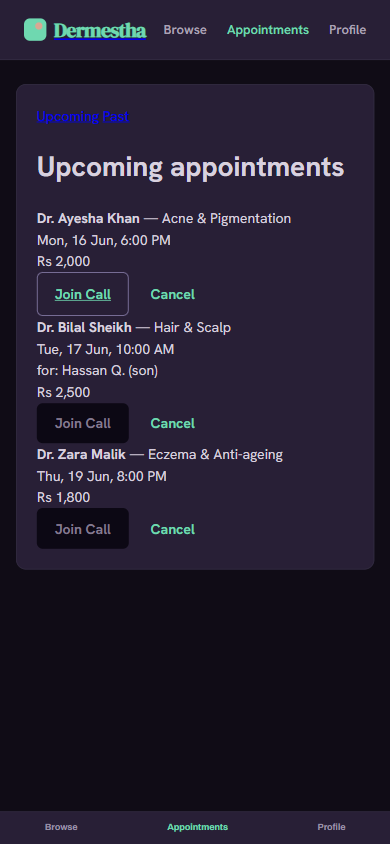
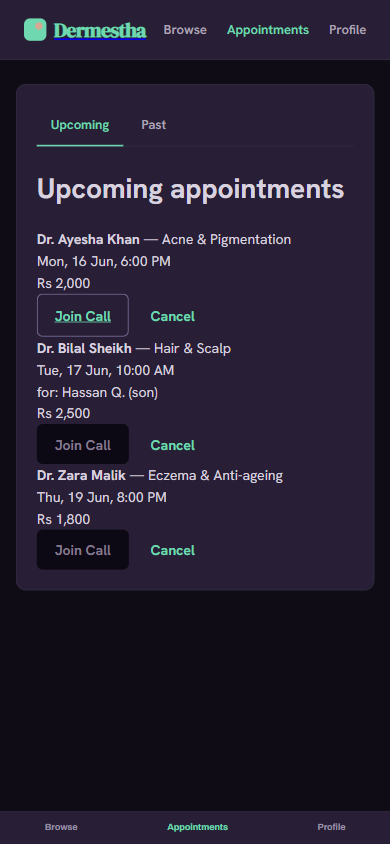
docs(spec): record F17/A-06 theming + ADR-41 across canon docs
- doc 11: ADR-41 (client-side runtime theming, layered tokens; builds on ADR-06) v1.18
- doc 02: F17 admin appearance/theme switcher (post-PRD) v1.5
- doc 06: §8 Theming system + A-06 in registry + sidebar + .tabs component v1.7
- doc 13: F17/A-06 Built status row + admin-views checklist v1.22
- doc 12: TC-F17-001/002 test cases v1.8
- doc 15: intentionally not touched (theme constants are client UI; documented in doc 06)
surgical edits per doc-00 change protocol (version bumps + footers)

Changed region(s): [[0.0308, 0.1232, 0.9538, 0.7085], [0.3692, 0.1232, 0.4308, 0.154]]

diff --git a/docs/specification/06-DESIGN_SYSTEM_THEME_DOCUMENT.md b/docs/specification/06-DESIGN_SYSTEM_THEME_DOCUMENT.md
@@ -4,7 +4,7 @@
 | ---------------- | ----------------------------------------------------------------------------------------- |
 | Document ID      | `06-DESIGN_SYSTEM_THEME_DOCUMENT`                                                         |
 | Status           | Canonical                                                                                 |
-| Version          | 1.6                                                                                       |
+| Version          | 1.7                                                                                       |
 | Last updated     | 2026-06-15                                                                                |
 | Sources absorbed | `docs/design/DESIGN.md; mockups/assets/css/tokens.css; mockups/assets/css/components.css` |
 | Related docs     | 02, 03                                                                                    |
@@ -20,6 +20,7 @@
 5. [Typography](#5-typography)
 6. [Spacing & layout](#6-spacing--layout)
 7. [Component behavior](#7-component-behavior)
+8. [Theming system (runtime themes)](#8-theming-system-runtime-themes)
 
 ---
 
@@ -107,9 +108,9 @@ Today — Availability (weekly grid) — History
 
 ### Admin sidebar links
 
-Doctors — Medicines — Records & audit — System health — Settings
+Doctors — Medicines — Records & audit — System health — Settings — Appearance
 
-`/admin` redirects to `/admin/doctors` — the Doctors list is the admin landing page.
+`/admin` redirects to `/admin/doctors` — the Doctors list is the admin landing page. **Appearance** (A-06) is the runtime theme switcher (F17, §8).
 
 **Sidebar logout.** Both the doctor and admin sidebars render a **Log out** control at the foot of the sidebar (`POST /api/auth/logout` then a full reload to `/login`); it is the doctor/admin equivalent of the patient's Profile-hosted logout. The `History` doctor link resolves to the D-02 history view (the history tab), not a separate screen.
 
@@ -141,8 +142,9 @@ Doctors — Medicines — Records & audit — System health — Settings
 | A-03      | Alert feed / system health               | Admin                    | A3           |
 | A-04      | Records & Audit Log                      | Admin                    | A5           |
 | A-05      | Settings                                 | Admin                    | A6           |
+| A-06      | Appearance — theme switcher (client)     | Admin                    | F17          |
 
-> **Note (canonical screen-ID registry).** The 24 rows above are the authoritative screen-ID registry — cite these IDs verbatim across the suite. The patient bottom-nav **Profile** destination (§2 navigation, below) is intentionally not a dedicated v1 screen: in v1 it routes to a minimal account view (logout + basic details); richer account management (account deletion / data-export → v1.1; family profiles → v1.2+) is deferred, so it carries no `P-NN` ID.
+> **Note (canonical screen-ID registry).** The 25 rows above are the authoritative screen-ID registry — cite these IDs verbatim across the suite. **A-06 Appearance** is a post-PRD addition (the v1 client theme redesign; F17 / ADR-41 / §8) — a style-only admin theme switcher. The patient bottom-nav **Profile** destination (§2 navigation, below) is intentionally not a dedicated v1 screen: in v1 it routes to a minimal account view (logout + basic details); richer account management (account deletion / data-export → v1.1; family profiles → v1.2+) is deferred, so it carries no `P-NN` ID.
 
 ---
 
@@ -586,6 +588,41 @@ Centered, `padding: var(--sp-12) var(--sp-4)`, `var(--color-text-muted)`. Icon: 
 
 ---
 
+## 8. Theming system (runtime themes)
+
+Added by the v1 client theme redesign (style-only; F17, ADR-41). The §4–§7 token system is the single styling source; this section documents how it became **runtime-switchable across multiple themes** with no per-screen change.
+
+### Layered tokens
+
+- **Invariant scale** — `client/src/styles/tokens.css` (`:root`): spacing, type scale, layout, motion, radius defaults, and the **default ("spruce") palette**. The §4 colour table documents this default theme.
+- **Swappable palettes** — `client/src/styles/themes.css`: one `:root[data-theme="<id>"]` block per non-default theme, each a complete palette (the §4 colour set + the extended role tokens below + the §6 radius scale + a heading serif). A `[data-theme]` block outranks the base `:root` in specificity, so spruce needs no block (selecting it clears the override).
+- **Extended role tokens** (added so every literal is themeable — this restores §7's "no raw hex in components.css" property, now literally true): `--color-on-accent`, `--color-on-danger`, `--color-on-dark-strong`, `--color-text-disabled`, `--color-tab-inactive`, `--focus-ring`, `--focus-ring-soft`, `--backdrop`, and `--font-display` (the §5 heading font, now theme-variable; small UI labels keep `--font-head`).
+
+### Runtime
+
+`client/src/lib/theme/theme.js` applies a theme by setting `data-theme` on `<html>` and persists it in `localStorage` (`dermestha.theme`); a pre-paint inline script in `index.html` applies it before first paint (no flash-of-wrong-theme). Display webfonts are lazy-loaded per active theme; the body font stays Hanken Grotesk for 3G performance. Persistence is **per-browser** — a server-backed global (all-users) theme is out of scope for this client-only change (ADR-41).
+
+### Shipped themes
+
+| Theme                       | Pole               | Ground             | Brand          | Accent     | Radii    | Heading serif    |
+| --------------------------- | ------------------ | ------------------ | -------------- | ---------- | -------- | ---------------- |
+| **Ivory & Ink** *(default)* | light editorial    | warm bone          | near-black ink | burnt amber | 1/2/4px  | Fraunces         |
+| **Derma Noir**              | dark / immersive   | aubergine-charcoal | jade           | rose-gold  | 6/10/14px | DM Serif Display |
+| **Sage & Blush**            | warm spa           | greige             | sage           | clay-rose  | 8/12/16px | Newsreader       |
+| **Spruce** *(original)*     | clinical apothecary | cool porcelain     | deep spruce    | brass      | 3/4/6px  | Archivo          |
+
+The three new themes are independently verified **WCAG 2.1 AA** for all text + functional control-boundary pairs (`theme-redesign/verify-contrast.mjs`). The §4 discipline rules (accent is fill / large-bold / non-text only; status is colour + icon + label) hold across all themes.
+
+### Admin surface (A-06)
+
+`/admin/appearance` presents the themes as preview cards (swatches + tagline) plus a live component preview; selecting one applies + persists instantly (cosmetic — no confirm gate). The full design rationale lives in `docs/theme-redesign/THEME-DESIGN.md`.
+
+### New component since §7
+
+**Tab nav (`.tabs` / `.tab` / `.tab--active`).** The appointment dashboard (P-08/P-09), doctor Today/History (D-02), and admin Records & Audit (A-04) use a tab row that previously had **no CSS** (it fell back to default browser links — illegible on the dark theme). It is now a themeable underline-tab: inactive `var(--color-text-muted)`, active `var(--color-primary)` text + a 2 px `var(--color-primary)` bottom border, on a `var(--color-border)` baseline.
+
+---
+
 ## Revision footer
 
 | Date       | Change           | Why                                                                 |
@@ -597,3 +634,4 @@ Centered, `padding: var(--sp-12) var(--sp-4)`, `var(--color-text-muted)`. Icon: 
 | 2026-06-14 | Added a "Pre-call get-ready room (P-11)" note — P-11 has no app-managed camera-preview pane (Daily prejoin owns the device check; approved minor deviation from the mockup) — and noted that P-12 + D-04 are served by one shared role-aware `VideoRoom` (separate screen IDs retained) rendering a brand-themed Daily Prebuilt iframe | Slice H · S3 (video consultation UI; ADR-34) |
 | 2026-06-14 | P-01 landing → Built: added the §2 public SPA route map (`/`→landing, listing P-02 relocated to `/browse`, logged-in-patient `/`→`/browse` redirect) and §3 "Landing (P-01)" (hero CTAs Browse + Sign-up, "How it works" anchor in the topnav, static featured-doctors grid) + "Legal pages (F16)" (reusable `LegalPage` DRAFT-banner pattern for `/legal/terms`,`/legal/privacy`) interaction notes | Slice H · S4 (public surface — landing + legal; ADR-35) |
 | 2026-06-15 | Flow-audit fixes: §2 sidebar **Log out** control (doctor/admin) + History-link-resolves note (ISSUE-2/4); §3 day-tabbed picker renders on P-03 (ISSUE-1); A-01 photo **required on add** (ISSUE-6); new "Medicine catalogue (A-02)" Edit note (ISSUE-7); P-07 as-built single "Payment not completed" terminal card + no-infinite-poll (ISSUE-3); "Not-found & cross-tenant states" (404 page ISSUE-8 + cross-tenant Rx message ISSUE-10); Landing featured cards display-only (ISSUE-5) | Three-role flow-audit fix session |
+| 2026-06-15 | Added §8 Theming system (layered tokens `tokens.css`/`themes.css`, extended role tokens incl. `--font-display`, `data-theme`+`localStorage` runtime, 4 themes — new AA default Ivory & Ink + Derma Noir + Sage & Blush + original Spruce); §2 admin sidebar +Appearance and screen registry +A-06 (24→25 rows); new `.tabs`/`.tab` tab-nav component. Style-only redesign; F17 / ADR-41 | Client theme-system visual redesign |

diff --git a/docs/specification/13-PRODUCT_STATUS_TRACKER.md b/docs/specification/13-PRODUCT_STATUS_TRACKER.md
@@ -4,7 +4,7 @@
 | ---------------- | ----------------------------------------------------------------------------------------------------------------------------------------------------- |
 | Document ID      | `13-PRODUCT_STATUS_TRACKER`                                                                                                                           |
 | Status           | Canonical                                                                                                                                             |
-| Version          | 1.21                                                                                                                                                   |
+| Version          | 1.22                                                                                                                                                   |
 | Last updated     | 2026-06-15                                                                                                                                            |
 | Sources absorbed | `server/src + client/src inspection; agentChangeLogs/2026-05-31-1700-m0-foundation-scaffold.md; ARCHITECTURE.md §5b; docs/specification/02; PRD §5.1` |
 | Related docs     | 02, 03, 05                                                                                                                                            |
@@ -157,6 +157,7 @@ Feature IDs are those defined in `docs/specification/02-SCOPE_FEATURE_DOCUMENT.m
 | F14 — Admin: platform settings                       | Settings (17)                               | M4        | Built       | Slice G: settings service + `GET`/`PUT` singleton (id=1, bounded full-replace, `before`→`after` `settings.updated` audit) + A-05 view. Tested |
 | F15 — Doctor & admin authentication & roles          | Auth & session (1)                          | M1        | Built       | Shared login + role routing, DA3 forced-change gate, `requireRole` all built & tested (Slice A); Slice G built DA5 admin-mediated reset + admin doctor-create; admin bootstrap script present (DA4)           |
 | F16 — Legal content (ToS / Privacy)                  | Legal content (19)                          | M4        | Built (DRAFT) | Slice H · S4: public `/legal/terms` + `/legal/privacy` via the reusable `LegalPage` template (banner-marked structured DRAFT; ADR-35), linked from the sign-up consent checkbox + landing footer; Privacy cross-refs the doc 08 §2 data-handling policy. Final lawyer-reviewed copy is a pre-launch gate. F16.02 consent capture (`tos_accepted_at`) was built in Slice A |
+| F17 — Admin: appearance / theme switcher (client)    | Appearance (A-06)                           | post-PRD  | Built       | Client theme redesign (ADR-41): layered tokens (`tokens.css` scale + `themes.css` palettes), `data-theme`+`localStorage` runtime, 4 selectable themes (new AA default Ivory & Ink + Derma Noir + Sage & Blush + original Spruce), A-06 Appearance view; style-only, no schema/API. Theme-runtime unit test added (client 135→141) |
 
 ---
 
@@ -280,7 +281,7 @@ This section is the v1 build backlog (baseline 2026-06-01), reconciled as each s
 - [x] Email automation: transport mechanism built in Slice E (outbox + dispatch worker: confirmation, 24h/1h reminders, refund confirmation, cancellation apology, refund-delayed; retry/backoff; reminder invalidation); `prescription_ready` trigger built in Slice F (per-prescription via outbox `dedupe_key`); final plain-text copy for all 8 templates shipped in Slice H · S5 (`email/templates.js` shared `render()` + `formatPKR`). (HTML email + Urdu deferred per design.)
 - [x] Landing page (public-facing patient acquisition surface) — Slice H · S4 (P-01 at `/`; listing relocated to `/browse`; logged-in-patient `/`→`/browse` redirect; KPI #1 `landing_view`/`booking_started` emits; ADR-35)
 - [x] Legal content: `/legal/terms` and `/legal/privacy` pages — Slice H · S4 (reusable `LegalPage` banner-marked structured DRAFT; final lawyer copy is a pre-launch gate)
-- [x] Admin views (client): A-01 Doctors (list / add / edit / deactivate — add-doctor and doctor-detail/edit are sub-views of A-01), A-02 Medicines, A-03 System health, A-04 Records & audit, A-05 Settings — Slice G (no A-06/A-07)
+- [x] Admin views (client): A-01 Doctors (list / add / edit / deactivate — add-doctor and doctor-detail/edit are sub-views of A-01), A-02 Medicines, A-03 System health, A-04 Records & audit, A-05 Settings — Slice G; **A-06 Appearance** (client theme switcher, F17/ADR-41) — client theme redesign (A-07 still none)
 - [x] Doctor views (client): D-02 today's-appointments base view (incl. History, 10-min Join gate, write-Rx action, awaiting badge), D-04 video consultation, D-06 cancel appointment modal — all built (D-02/D-06 prior; D-04 + D-02 Join→`/ready` redirect & `video_join_attempt` emit in Slice H · S3)
 - [~] Patient views (client): P-11 pre-call get-ready room ✓, P-12 video consultation ✓ (Slice H · S3); P-01 landing ✓ (Slice H · S4); patient Profile tab (doc 06 §2 nav destination; no dedicated screen-inventory ID) still pending. Refund status shows within the P-08/P-09 dashboards (doc 02 §F04), not a standalone screen
 - [x] Full E2E QA pass — Slice H · S7 launch gate: Playwright `e2e/` harness, 6 Critical journeys J1–J6 (11/11) vs mock adapters (ADR-38) + 3 new money-path integration tests; FK-`RESTRICT` crash class fixed (ADR-39); 320 server / 123 client / 11 e2e; verdict **Conditional-Go** (report under `docs/superpowers/reports/`). Remaining: human UAT sign-off + the vendor live-delivery gates (doc 07 §3/§10)
@@ -313,3 +314,4 @@ This section is the v1 build backlog (baseline 2026-06-01), reconciled as each s
 | 2026-06-14 | E2E QA launch gate executed: §2 M4 → ~95% (E2E executed, Conditional-Go, counts 320/123/11 + report ref); added an "E2E test harness" cross-cutting/infra row (`e2e/`, `test:e2e`, `@playwright/test`; ADR-38); §5 roadmap M4 + §6 backlog "Full E2E QA pass" ticked; added a §5 follow-up row marking the money-path FK-delete crash class **Resolved** (ADR-39, 3 new integration tests) | Slice H · S7 (E2E QA + launch gate; ADR-38/39) (v1.19) |
 | 2026-06-15 | Three-role flow-audit fix cycle recorded in the §2 M4 snapshot: 13 navigable-flow issues fixed test-first; suite raised to **322 server / 135 client / 17 e2e** (+j7/j8/j9 E2E specs) | Three-role flow-audit fix session (v1.20) |
 | 2026-06-15 | Re-pointed two test-file inventory paths to the centralized tree: `audit.service.test.js` → `server/test/unit/services/audit/`; the 3 money-path integration tests → `server/test/integration/` (ADR-40) | Test centralization (ADR-40); paths only, no count change | 
+| 2026-06-15 | Added F17 / A-06 Appearance (client theme switcher) to the feature table + admin-views checklist: layered-token theming (`tokens.css`/`themes.css`), `data-theme`+`localStorage` runtime, 4 selectable themes (new AA default Ivory & Ink + Derma Noir + Sage & Blush + Spruce); client tests 135→141 (theme-runtime unit test); style-only, no schema/API (ADR-41) | Client theme-system visual redesign (v1.22) |

diff --git a/docs/specification/11-ARCHITECTURE_DECISION_RECORD.md b/docs/specification/11-ARCHITECTURE_DECISION_RECORD.md
@@ -4,7 +4,7 @@
 | ---------------- | -------------------------------------------------------------------------------------------------- |
 | Document ID      | 11-ARCHITECTURE_DECISION_RECORD                                                                    |
 | Status           | Canonical                                                                                          |
-| Version          | 1.17                                                                                               |
+| Version          | 1.18                                                                                               |
 | Last updated     | 2026-06-15                                                                                         |
 | Sources absorbed | `docs/engineering/ARCHITECTURE.md §3/§5/§8/§10/§12/§15; agentChangeLogs/; docs/superpowers/specs/` |
 | Related docs     | 03, 04, 05, 14                                                                                     |
@@ -54,6 +54,7 @@
 39. [ADR-38 — Playwright E2E harness (root `e2e/`) against the mock adapters as the v1 launch gate](#adr-38--playwright-e2e-harness-root-e2e-against-the-mock-adapters-as-the-v1-launch-gate)
 40. [ADR-39 — Payment/appointment no-cascade release policy (refines ADR-23)](#adr-39--paymentappointment-no-cascade-release-policy-refines-adr-23)
 41. [ADR-40 — Centralized `test/` tree + `#src`/`#shared` aliases (supersedes ADR-26 test co-location)](#adr-40--centralized-test-tree--srcshared-aliases-supersedes-adr-26-test-co-location)
+42. [ADR-41 — Client-side runtime theming (`data-theme` + `localStorage`), layered tokens, multi-theme; no server-backed global theme in v1](#adr-41--client-side-runtime-theming-data-theme--localstorage-layered-tokens-multi-theme-no-server-backed-global-theme-in-v1)
 
 ---
 
@@ -596,6 +597,26 @@ Prisma's DSL cannot express a `WHERE` clause on a `UNIQUE` index, so this index 
 
 ---
 
+## ADR-41 — Client-side runtime theming (`data-theme` + `localStorage`), layered tokens, multi-theme; no server-backed global theme in v1
+
+**Date:** 2026-06-15
+
+**Status:** Accepted
+
+**Context:** ADR-06 established a CSS-variable token system (`tokens.css` consumed by semantic classes in `components.css`; views reference classes, not raw colour). A visual redesign wanted several distinct, swappable themes — a boutique-teledermatology identity deliberately unlike the generalist Pakistani competitors — selectable at runtime without editing any screen, plus an admin surface to switch them. The mandate was **style-only, client-side, with no business-logic / flow / API / DB change.**
+
+**Decision:** Extend the existing token system into a **runtime-switchable multi-theme** system, entirely client-side:
+
+- **Layered tokens.** The invariant scale (spacing / type / layout / motion + the default "spruce" palette) stays in `tokens.css`; swappable palettes live in one new `client/src/styles/themes.css` as `:root[data-theme="<id>"]` blocks. A theme block has higher specificity than the base `:root`, so it always wins regardless of stylesheet order — and spruce, being the base, needs no block (selecting it clears the override). Each block carries the full colour set + extended role tokens + the radius scale + a `--font-display` heading serif.
+- **Runtime (`client/src/lib/theme/theme.js`).** Applies a theme by setting `data-theme` on `<html>` and persists the choice in `localStorage` (`dermestha.theme`); a pre-paint inline script in `index.html` applies it before first paint (no flash-of-wrong-theme). Display webfonts are lazy-loaded per active theme; the body font (Hanken Grotesk) is constant for 3G performance.
+- **Admin surface.** A scoped **A-06 Appearance** tab (`/admin/appearance`, feature F17) switches themes; cosmetic, no confirm gate (unlike the money-affecting A-05).
+- **No server state.** Persistence is per-browser. A globally-enforced (all-users) theme would require a platform setting (API + DB + config) — deliberately **out of scope** for a client-only, style-only change.
+- Three new themes ship — **Ivory & Ink** (live default), **Derma Noir** (dark), **Sage & Blush** — plus the original **Spruce** retained as a one-click fallback; all three new themes were independently verified WCAG 2.1 AA.
+
+**Consequences:** Any screen re-themes with **zero view changes** (every consumer already reads `var(--…)`); a theme is added/removed by editing one `themes.css` block + one `theme.js` registry entry. The residual raw literals in `components.css` were tokenized in the same pass, restoring ADR-06 / doc-06's "no raw hex in components.css" property; an intended-but-unstyled `.tab` component was also given (themeable) CSS so it stays legible on the dark theme. The default visitor experience changed (now Ivory & Ink) — fully reversible via the Appearance tab or by clearing the `localStorage` key. **Builds on ADR-06** (does not supersede it). Follow-ups: a server-backed global theme (when a backend setting is acceptable) and self-hosting/subsetting the display fonts. No schema / API / dependency change; client tests `135 → 141` (added a theme-runtime unit test).
+
+---
+
 ## Revision footer
 
 | Date       | Change           | Why                                                           |
@@ -618,3 +639,4 @@ Prisma's DSL cannot express a `WHERE` clause on a `UNIQUE` index, so this index 
 | 2026-06-14 | Added ADR-36 (Sentry DSN-gated error tracking; `sendDefaultPii:false` + `beforeSend` PII scrub; parallel to the ADR-30 audit bridge, does not feed A3; `SENTRY_DSN` canonical) and ADR-37 (single zod@3 copy via `shared` workspace + root `overrides.zod`; transitive zod@4 collapsed; errorHandler ZodError duck-typing removed; override is a global constraint) | Slice H · S6 (launch foundation + hardening); two new architectural decisions |
 | 2026-06-14 | Added ADR-38 (Playwright E2E harness at root `e2e/` against the mock adapters; 6 Critical journeys J1–J6 as the v1 launch gate; living/extensible, one spec per journey + shared `support/`) and ADR-39 (payment/appointment no-cascade release policy — `Payment.appointment` is ON DELETE RESTRICT; `payment.failed`/reconcile-failed mark Payment failed + force-expire the lock, reclaim only `failed`/absent blockers, refundInFull force-expires; refines ADR-23) | Slice H · S7 (E2E QA + launch gate) + the four money-path fixes; two new architectural decisions |
 | 2026-06-15 | Added ADR-40 (centralized per-workspace `test/` tree — `unit/` mirrors `src/`, module `test.js`→`service.test.js`, integration `.integration` infix dropped; `#src`/`#shared` `resolve.alias`) superseding the test-co-location bullet of ADR-26 (pointer added); test move only, no behavior change | Server+shared+client test centralization; new architectural decision |
+| 2026-06-15 | Added ADR-41 (client-side runtime theming: layered tokens `tokens.css`/`themes.css`, `data-theme`+`localStorage` runtime, A-06 Appearance/F17, 3 new AA themes + spruce fallback, lazy display fonts; no server-backed global theme in v1; builds on ADR-06) | Client theme-system visual redesign (style-only) |

diff --git a/docs/specification/12-SCOPE_FEATURE_TEST_CASES_DOCUMENT.md b/docs/specification/12-SCOPE_FEATURE_TEST_CASES_DOCUMENT.md
@@ -4,7 +4,7 @@
 | ---------------- | -------------------------------------- |
 | Document ID      | `12-SCOPE_FEATURE_TEST_CASES_DOCUMENT` |
 | Status           | Canonical                              |
-| Version          | 1.7                                    |
+| Version          | 1.8                                    |
 | Last updated     | 2026-06-15                             |
 | Sources absorbed | `docs/specification/02, 08, 09`        |
 | Related docs     | 02, 08, 09                             |
@@ -261,6 +261,13 @@ Cases are grouped by feature. Each case lists all six fields. IDs are sequential
 | TC-F16-001 | F16.01 Legal pages linked from sign-up | None                | 1. Open the sign-up consent checkbox label links.           | `/legal/terms` and `/legal/privacy` pages load and are linked from the consent checkbox. | Low      |
 | TC-F16-002 | F16.02 Consent record                  | A completed sign-up | 1. Sign up with consent ticked. 2. Inspect the user record. | A single mandatory acceptance with timestamp (`tos_accepted_at`) is recorded at sign-up. | Low      |
 
+### F17 — Admin: appearance / theme switcher (client)
+
+| ID         | Feature                                                   | Preconditions               | Steps                                                                                                  | Expected result                                                                                                                                                                                                 | Priority |
+| ---------- | --------------------------------------------------------- | --------------------------- | ------------------------------------------------------------------------------------------------------ | ------------------------------------------------------------------------------------------------------------------------------------------------------------------------------------------------------------- | -------- |
+| TC-F17-001 | F17.01 Theme persists + re-colours without screen change  | Admin `A` logged in         | 1. Open Admin → Appearance. 2. Apply a non-default theme (e.g. Derma Noir). 3. Navigate screens; reload. | Every screen re-colours immediately with no layout/content change; the choice persists across reloads (`localStorage` `dermestha.theme`). The runtime unit test covers apply/persist/init/fallback.             | Low      |
+| TC-F17-002 | F17.02 Selectable themes + AA + one-click revert           | Admin `A` on A-06 Appearance | 1. Review the theme cards. 2. Apply each in turn. 3. Apply **Spruce**.                                  | Four themes are selectable (Ivory & Ink default + Derma Noir + Sage & Blush + Spruce); the three new themes meet WCAG AA (`theme-redesign/verify-contrast.mjs`); selecting Spruce restores the original look.    | Low      |
+
 ---
 
 ## 5. Security test cases
@@ -354,3 +361,4 @@ The Medicine Ordering Module (doc 02 §5, PRD §6) is **not part of the v1 build
 | 2026-06-13 | Added TC-F10-006 (admin weekly-template editor), TC-F12-004 (second-resend idempotency 409), TC-F12-005 (`system.unhandled_exception` alert source), TC-F13-004 (email-resend audit trail + 409), TC-F14-004 (settings floor + A-05 confirm gate) | Slice G as-built sweep |
 | 2026-06-14 | Added the §6 "S7 E2E QA cycle — execution record": Critical J1–J6 cases marked Verified (E2E + integration) + the assisted-manual UI cases (F02/F16/F10/F12/F13/F14) Verified; logged the 4 cycle defects (BUG-1 / FIX-A / FIX-B / BUG-2) as found-and-fixed with resolutions (ADR-39); pointed at the release recommendation | Slice H · S7 (E2E QA + launch gate) |
 | 2026-06-15 | Added TC-F03-010 (future-day picker), TC-F04-009 (payment-fail terminal UX), TC-F08-015 (cross-tenant Rx UI no-leak), TC-F10-007 (photo required on add), TC-F11-007 (medicine edit via A-02); added the §6 "Three-role flow-audit fix cycle" execution record (new j7/j8/j9 E2E specs; logout/404 covered there) | Three-role flow-audit fix session |
+| 2026-06-15 | Added the F17 test-case table (TC-F17-001 theme persists + re-colours without screen change; TC-F17-002 selectable themes + AA + one-click revert) for the client theme switcher (ADR-41) | Client theme-system visual redesign |

diff --git a/docs/specification/02-SCOPE_FEATURE_DOCUMENT.md b/docs/specification/02-SCOPE_FEATURE_DOCUMENT.md
@@ -4,7 +4,7 @@
 | ---------------- | --------------------------------------------- |
 | Document ID      | `02-SCOPE_FEATURE_DOCUMENT`                   |
 | Status           | Canonical                                     |
-| Version          | 1.4                                           |
+| Version          | 1.5                                           |
 | Last updated     | 2026-06-14                                    |
 | Sources absorbed | `docs/product/PRD.md §2.2, §3.3–§3.6, §4, §6` |
 | Related docs     | 01, 04, 05, 08, 12, 13                        |
@@ -49,6 +49,7 @@ Each feature ID below maps to the PRD §2.2 user stories (and supporting §3.x s
 | `F14`      | Admin: platform settings                       | A6                        |
 | `F15`      | Doctor & admin authentication & roles          | DA1–DA6                   |
 | `F16`      | Legal content (ToS / Privacy)                  | P2, §3.6                  |
+| `F17`      | Admin: appearance / theme switcher (client)    | — (post-PRD; ADR-41)      |
 
 ---
 
@@ -347,6 +348,15 @@ One-line: hosted Terms of Service and Privacy Policy pages linked from sign-up; 
 
 ---
 
+### **F17 - Admin: appearance / theme switcher (client-side)**
+
+One-line: a scoped admin **Appearance** tab lets an administrator switch the app's visual theme at runtime; **style-only**, client-side, with no business-logic / flow / API / DB change (ADR-41). Not derived from the original PRD — added by the v1 client theme redesign.
+
+- **F17.01 - Theme runtime**: the active theme is applied by setting `data-theme` on `<html>` and remembered in this browser via `localStorage` (key `dermestha.theme`); a pre-paint bootstrap in `index.html` avoids a flash of the wrong theme. Persistence is **per-browser** — a server-backed global (all-users) theme is deliberately out of scope for this client-only change. Themes are CSS-variable palettes in `client/src/styles/themes.css`; switching one re-colours every screen with **no view change**.
+- **F17.02 - Selectable themes**: four themes ship — **Ivory & Ink** (live default), **Derma Noir**, **Sage & Blush**, and the original **Spruce** (one-click fallback). The three new themes are independently verified WCAG 2.1 AA. The admin **A-06 Appearance** view (`/admin/appearance`) presents them as preview cards plus a live component preview; selecting one applies + persists instantly (cosmetic — no confirm gate, unlike A-05).
+
+---
+
 ## 3. Appointment state machine
 
 The §4.3 appointment state machine, reproduced faithfully.
@@ -563,3 +573,4 @@ confirmed / paid ─► cancelled   (card → refund initiated; cod → closed)
 | 2026-06-13 | Added two PayFast-Pakistan alert sources to the F12.01 alert-feed enumeration: `payment.manual_review_required` (no gateway status-query API) + `payment.refund_manual_required` (no gateway refund API) | Slice H · S1 (PayFast Pakistan adapter; ADR-32) |
 | 2026-06-14 | F05.03: noted the KPI #3 emit points — `video_join_attempt` on the Join Call click (P9 + D2) and `video_join_success` on Daily `joined-meeting` (P5/D3) via the fire-and-forget client `lib/analytics/track.js` seam (doc 14 §6; ADR-34) | Slice H · S3 (video consultation UI; ADR-34) |
 | 2026-06-14 | F16.01: legal pages built as a banner-marked structured DRAFT via the reusable `LegalPage` template (final lawyer copy = pre-launch gate); F03.03: noted the KPI #1 emit points — `landing_view` on P-01 mount + `booking_started` on slot-lock via the shared `lib/analytics/track.js` seam (`booking_confirmed` remains S6/server) | Slice H · S4 (public surface — landing + legal; ADR-35) |
+| 2026-06-15 | Added F17 (admin appearance / client-side theme switcher) + A-06 Appearance view: `data-theme`+`localStorage` runtime, 4 selectable themes (new AA default Ivory & Ink + Derma Noir + Sage & Blush + original Spruce); style-only, no schema/API; per-browser persistence (server-backed global theme out of scope). Post-PRD redesign feature; ADR-41 | Client theme-system visual redesign |

diff --git a/theme-redesign/report.md b/theme-redesign/report.md
@@ -12,7 +12,9 @@ component inventory is shown per theme. All paths are relative to this
 - **Theming only.** No layout, copy, routing, or flow changes. Every screen is the
   same markup and structure as before; only the design tokens (colour palette, the
   display/heading font, and the corner-radius scale) change per theme. Body text stays
-  Hanken Grotesk in every theme for fast first paint.
+  Hanken Grotesk in every theme for fast first paint. Plus one CSS-only completion — the
+  previously-unstyled `.tab` navigation component (P-08/P-09/D-02/A-04) was given
+  themeable styling; no view/markup or business-logic changes.
 - **Four selectable themes** (chosen in the app under **Admin -> Appearance**; the
   choice is remembered per browser in `localStorage`):
   - **Ivory & Ink** — warm bone-and-ink editorial luxe, one burnt-amber accent, sharp
